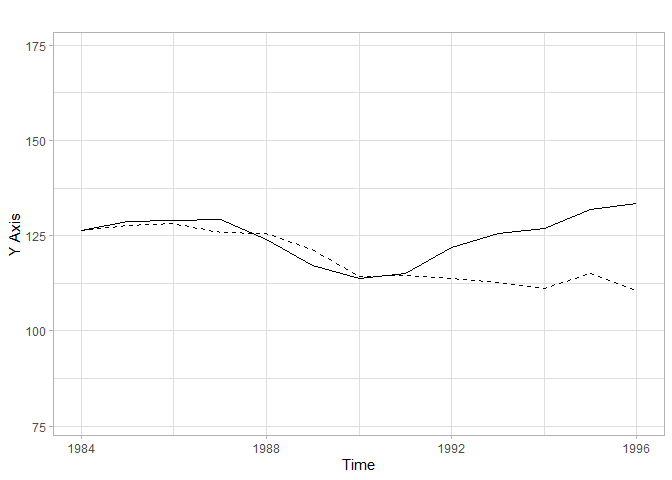
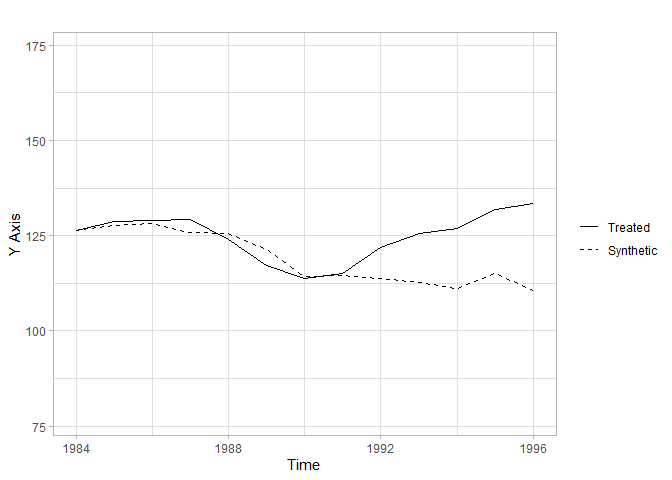
fix legend

diff --git a/README.md b/README.md
@@ -92,9 +92,10 @@ my_path_plot(dataprep.res = dataprep.out, synth.res = synth.out, ggplot = TRUE) 
 
 ![](README_files/figure-gfm/unnamed-chunk-4-1.png)<!-- -->
 
+With additional arguments:
+
 ``` r
-my_path_plot(dataprep.res = dataprep.out, synth.res = synth.out, ggplot = TRUE,
-             tr.intake = 1991) +
+my_path_plot(dataprep.res = dataprep.out, synth.res = synth.out, tr.intake = 1991, Ylab = "My outcome", Xlab = "Years", Main = "My plot", Legend = c("First item", "Second item"), ggplot = TRUE) +
   ggplot2::theme_light()
 ```
 
@@ -122,9 +123,16 @@ my_gaps_plot(dataprep.res = dataprep.out, synth.res = synth.out, ggplot = TRUE)
 ![](README_files/figure-gfm/unnamed-chunk-7-1.png)<!-- -->
 
 ``` r
-my_gaps_plot(dataprep.res = dataprep.out, synth.res = synth.out, ggplot = TRUE,
-             tr.intake = 1991) +
-  ggplot2::theme_light()
+my_gaps_plot(dataprep.res = dataprep.out, synth.res = synth.out, Z.plot = TRUE, ggplot = TRUE)
 ```
 
 ![](README_files/figure-gfm/unnamed-chunk-8-1.png)<!-- -->
+
+With additional arguments:
+
+``` r
+my_gaps_plot(dataprep.res = dataprep.out, synth.res = synth.out, tr.intake = 1991, Ylab = "My outcome", Xlab = "Years", Main = "My plot", ggplot = TRUE) +
+  ggplot2::theme_light()
+```
+
+![](README_files/figure-gfm/unnamed-chunk-9-1.png)<!-- -->
